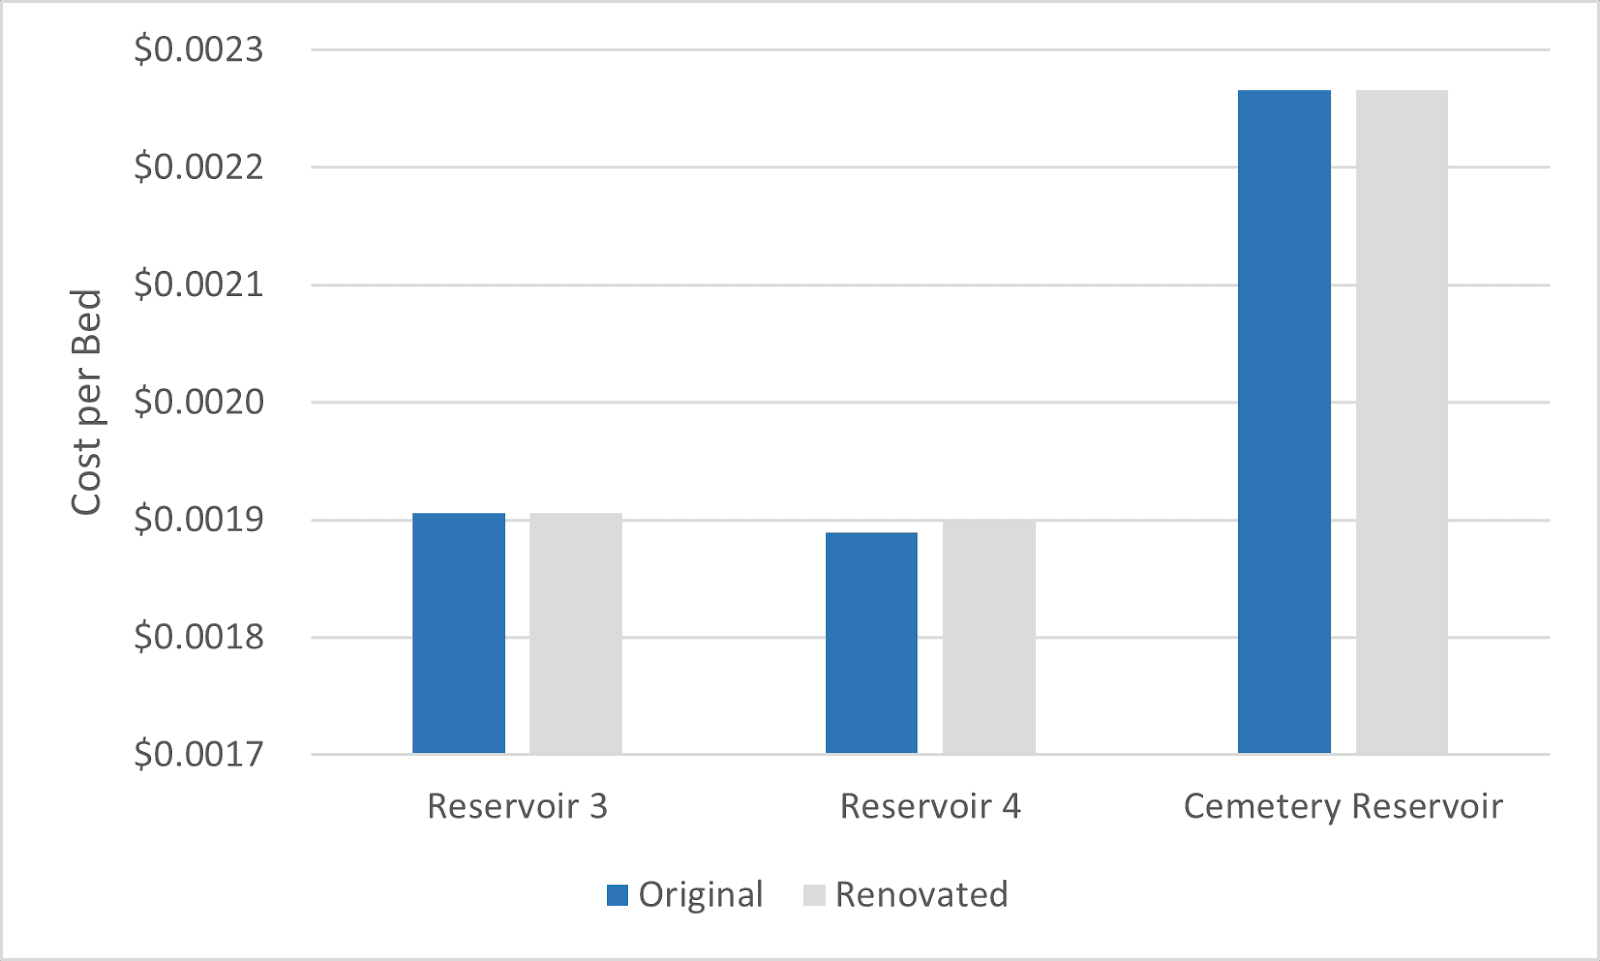
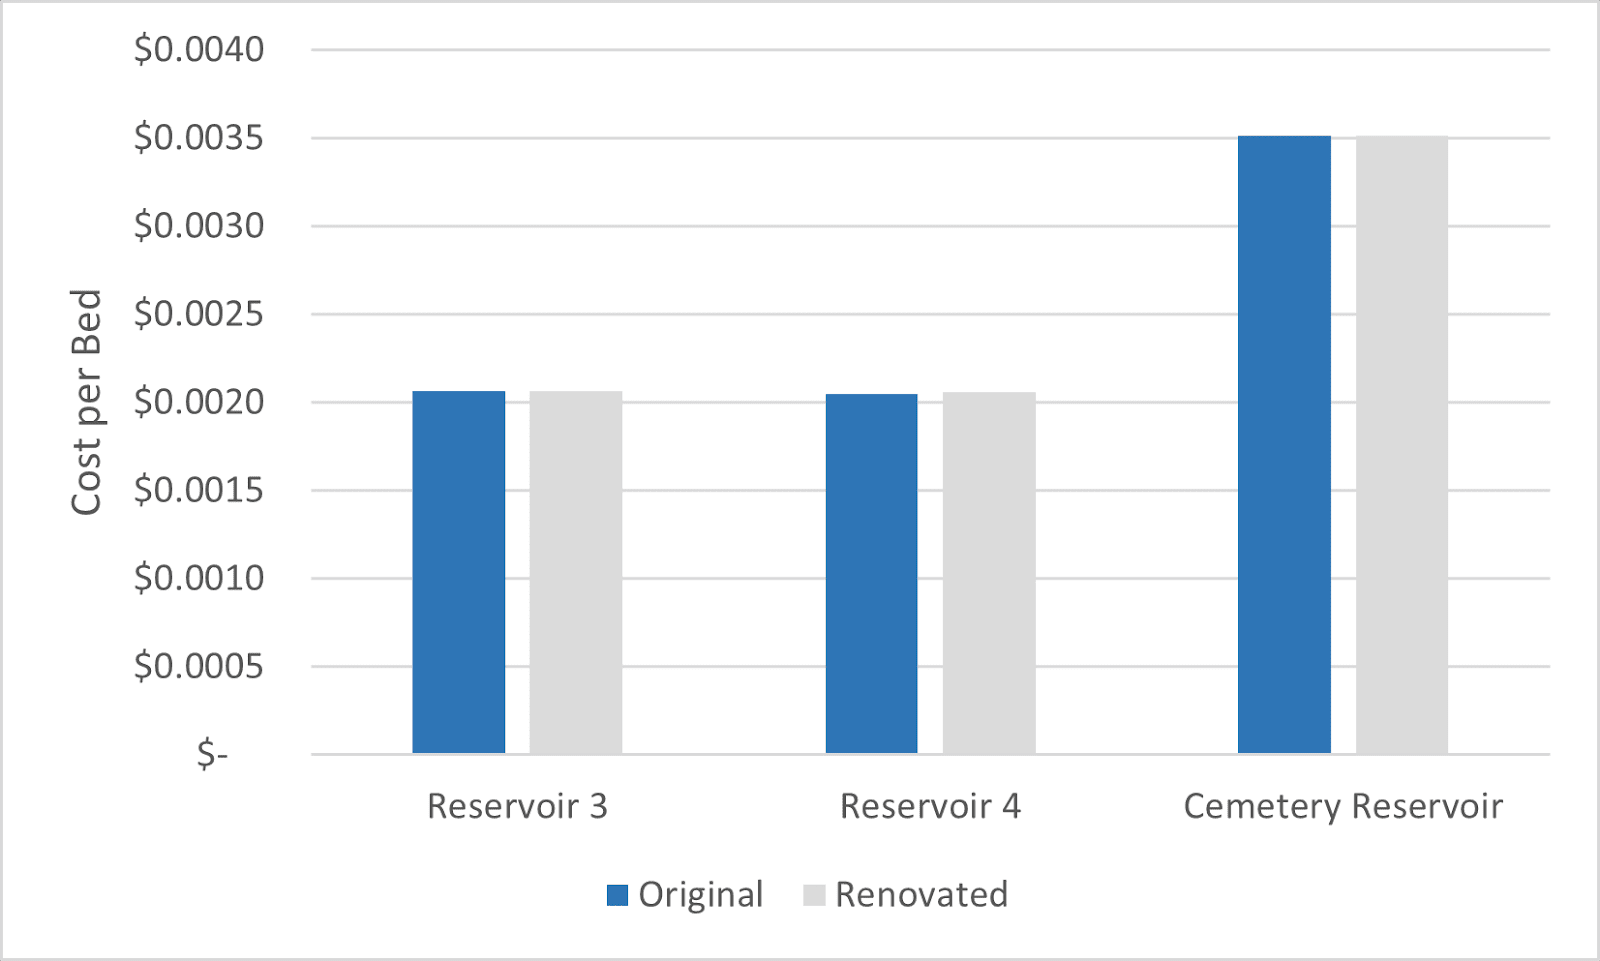
updated figures and numbers

diff --git a/projects/OHSU-Contingency-Plan.html b/projects/OHSU-Contingency-Plan.html
@@ -132,7 +132,7 @@
             </p>
             
             <p>
-            From the calculations, it is evident that the economical benefit of refitting the concrete pipes to commercial steel is negligible. This difference between the original pipes and the renovated pipes is best illustrated in the figure below.
+            From the calculations, it is evident that the economical benefit of refitting the concrete pipes to commercial steel is negligible. This difference between the original pipes and the renovated pipes is best illustrated in the figures below.
             </p>
             
             <p>
@@ -145,7 +145,7 @@
             
             <h2>Conclusion:</h2>
             <p>
-            Our firm found that the most ideal reservoir to supply water to OHSU in the event of a city-wide disaster is the Cemetery Reservoir. Although the cost per additional bed is slightly higher than for the other reservoirs, the Cemetery Reservoir is the most cost effective reservoir, costing OHSU only $280.97 per day.
+            Our firm found that the most ideal reservoir to supply water to OHSU in the event of a city-wide disaster is the Cemetery Reservoir. Although the cost per additional bed is slightly higher than for the other reservoirs, the Cemetery Reservoir is the most cost effective reservoir, costing OHSU only $281.63 per day.
             </p>
             
             <h2>Sources:</h2>
